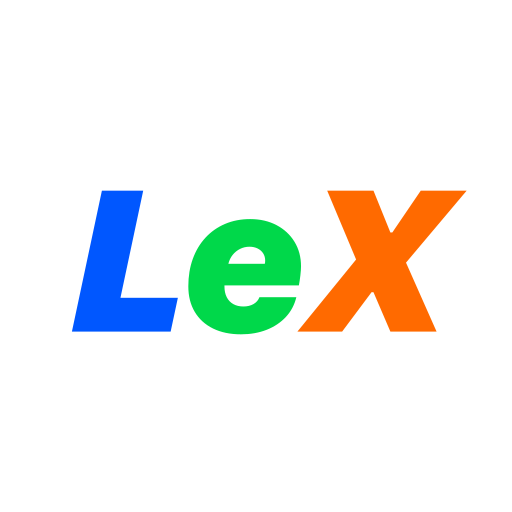
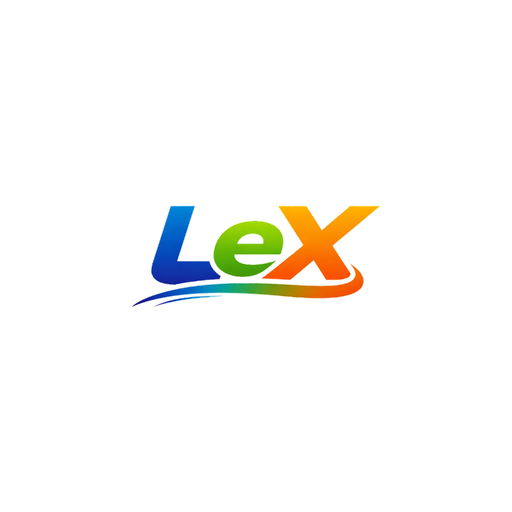
feat: logótipo oficial com fundo transparente e seed via LEX_SEED_PASSWORD
- lex-logo.png + script icons com remoção de fundo branco; derivados PNG/SVG flat removidos
- LexMark e PWA voltam ao asset oficial; README, Docker e compose documentam seed
- Seed: senha por LEX_SEED_PASSWORD (prod obrigatório); dev local fallback lex-local-dev

Made-with: Cursor

Changed region(s): [[0.125, 0.3438, 0.9062, 0.6562]]

diff --git a/apps/api/prisma/seed.ts b/apps/api/prisma/seed.ts
@@ -10,8 +10,19 @@ import * as bcrypt from 'bcryptjs';
 const prisma = new PrismaClient();
 
 /** Utilizador inicial (bootstrap local / Docker / primeiro deploy). */
-const SEED_USER_EMAIL = 'leandro.borges@me.com';
-const SEED_USER_PASSWORD = 'Lean777$';
+const SEED_USER_EMAIL = process.env.LEX_SEED_EMAIL ?? 'leandro.borges@me.com';
+
+function resolveSeedPassword(): string {
+  const fromEnv = process.env.LEX_SEED_PASSWORD;
+  if (fromEnv && fromEnv.length > 0) return fromEnv;
+  if (process.env.NODE_ENV === 'production' && process.env.LEX_ALLOW_SEED_IN_PROD === '1') {
+    throw new Error(
+      'Defina LEX_SEED_PASSWORD no ambiente antes do seed em produção (primeiro arranque ou repor senha).',
+    );
+  }
+  // Desenvolvimento local: previsível; em produção sem LEX_ALLOW_SEED_IN_PROD o seed nem corre.
+  return 'lex-local-dev';
+}
 
 async function main() {
   if (process.env.NODE_ENV === 'production' && process.env.LEX_ALLOW_SEED_IN_PROD !== '1') {
@@ -24,7 +35,7 @@ async function main() {
     where: { email: 'admin@lex.local' },
   });
 
-  const passwordHash = await bcrypt.hash(SEED_USER_PASSWORD, 10);
+  const passwordHash = await bcrypt.hash(resolveSeedPassword(), 10);
   await prisma.user.upsert({
     where: { email: SEED_USER_EMAIL },
     update: { passwordHash },

diff --git a/apps/web/src/components/brand/LexMark.tsx b/apps/web/src/components/brand/LexMark.tsx
@@ -1,11 +1,11 @@
 import { cn } from '@/lib/utils';
 
-type Props = { className?: string; /** @deprecated Compatibilidade; o SVG já é só “LeX”. */ withWordmark?: boolean };
+type Props = { className?: string; /** @deprecated Compatibilidade. */ withWordmark?: boolean };
 
-const LOGO_SRC = '/logo.svg';
+const LOGO_SRC = '/lex-logo.png';
 
 /**
- * Marca LeX — texto “LeX” com cores da marca (`/public/logo.svg`, fundo transparente).
+ * Marca LeX — logótipo oficial (LeX + swoosh), ficheiro em `/public/lex-logo.png`.
  */
 export function LexMark({ className }: Props) {
   return (
@@ -15,7 +15,7 @@ export function LexMark({ className }: Props) {
         alt="LeX"
         className="h-10 w-auto max-w-[min(100%,240px)] object-contain object-left bg-transparent"
         width={200}
-        height={100}
+        height={56}
         decoding="async"
       />
     </div>

diff --git a/apps/web/vite.config.ts b/apps/web/vite.config.ts
@@ -9,12 +9,11 @@ export default defineConfig({
     VitePWA({
       registerType: 'autoUpdate',
       includeAssets: [
+        'lex-logo.png',
         'favicon.png',
         'apple-touch-icon.png',
         'logo.png',
         'icon.png',
-        'logo.svg',
-        'icon.svg',
       ],
       manifest: {
         name: 'LeX Finance',

diff --git a/README.md b/README.md
@@ -65,7 +65,17 @@ docker-compose.yml → um serviço `app`, volume `lex_sqlite` → /data
    pnpm db:seed
    ```
 
-   > O seed cria o usuário **leandro.borges@me.com** (senha inicial no ficheiro `apps/api/prisma/seed.ts`), entidades PF/PJ seed, membros, categorias, fontes pagadoras e contratos Microblau, Unimed e FIPEC (valores zerados para edição).
+   **Senha:** em desenvolvimento local, se não definir `LEX_SEED_PASSWORD`, o seed usa a senha **`lex-local-dev`** (apenas para ambiente não produtivo). Para **definir ou repor** a senha do utilizador seed, execute de novo o seed com uma variável de ambiente:
+
+   ```bash
+   LEX_SEED_PASSWORD='a-sua-nova-senha' pnpm db:seed
+   ```
+
+   Opcional: `LEX_SEED_EMAIL=email@exemplo.com` para criar/atualizar outro e-mail.
+
+   > O seed cria o utilizador **leandro.borges@me.com** (ou o definido em `LEX_SEED_EMAIL`), entidades PF/PJ seed, membros, categorias, fontes pagadoras e contratos Microblau, Unimed e FIPEC (valores zerados para edição).
+
+   **Docker / produção (primeiro arranque):** defina **`LEX_SEED_PASSWORD`** no ambiente (o `docker-compose` do repo usa o default `lex-docker-seed` se não passar outra). Sem a variável num deploy “nu” (`docker run` sem `-e`), o seed automático falha quando a base ainda não tem utilizadores.
 
 4. Desenvolvimento (API + frontend com proxy):
 
@@ -121,17 +131,17 @@ Manual:
 
 ```bash
 docker build -t lex-finance .
-docker run -p 3000:3000 -e JWT_SECRET=sua-chave -v lex_data:/data lex-finance
+docker run -p 3000:3000 -e JWT_SECRET=sua-chave -e LEX_SEED_PASSWORD=sua-senha-seed -v lex_data:/data lex-finance
 ```
 
 - `PORT` pode ser sobrescrito (Railway injeta `PORT`); dentro do Compose o serviço usa `3000` interno.
 - SQLite persistente: `DATABASE_URL=file:/data/app.db` (padrão na imagem). Monte um volume em **`/data`**.
-- Entrypoint: `docker/entrypoint.sh` (copiado para `/usr/local/bin/lex-entrypoint.sh` na imagem). Após `migrate deploy`, se **não existir nenhum utilizador** (volume SQLite novo), corre o **seed automaticamente** (credenciais definidas em `apps/api/prisma/seed.ts`). Para desativar: `LEX_SKIP_AUTO_SEED=1`.
+- Entrypoint: `docker/entrypoint.sh` (copiado para `/usr/local/bin/lex-entrypoint.sh` na imagem). Após `migrate deploy`, se **não existir nenhum utilizador** (volume SQLite novo), corre o **seed automaticamente** — em produção é **obrigatório** definir **`LEX_SEED_PASSWORD`** (o `docker-compose` local usa o default `lex-docker-seed` se não passar outra). Para desativar: `LEX_SKIP_AUTO_SEED=1`.
 
 Se a base **já tem utilizadores** e precisar de correr o seed manualmente (raro):
 
 ```bash
-docker exec -it <container> sh -c "cd /app/apps/api && LEX_ALLOW_SEED_IN_PROD=1 npx prisma db seed"
+docker exec -it <container> sh -c "cd /app/apps/api && LEX_ALLOW_SEED_IN_PROD=1 LEX_SEED_PASSWORD='nova-senha' npx prisma db seed"
 ```
 
 O seed atual remove o utilizador legado `admin@lex.local` (se existir) e garante o utilizador definido em `seed.ts`. Útil após mudar o e-mail/senha do bootstrap sem apagar o volume.
@@ -151,10 +161,11 @@ O seed atual remove o utilizador legado `admin@lex.local` (se existir) e garante
 2. Adicione um **volume** montado em **`/data`** para persistir o SQLite. Sem volume (ou com caminho errado), o SQLite pode falhar com **Unable to open the database file** (erro 14). A imagem usa um entrypoint que verifica se `/data` é gravável antes de migrar e subir a API.
 3. Variáveis sugeridas:
    - `JWT_SECRET` — obrigatório em produção.
+   - **`LEX_SEED_PASSWORD`** — obrigatório no **primeiro arranque** (base vazia); define a senha do utilizador seed. Depois do login, pode alterar no ecrã de perfil.
    - `DATABASE_URL=file:/data/app.db` (já é o padrão do `Dockerfile`; reforce se necessário).
    - `PORT` — definido automaticamente pelo Railway.
 4. O arquivo `railway.json` aponta para o `Dockerfile` na raiz.
-5. **Primeiro deploy:** com volume em `/data` vazio, o entrypoint aplica migrações e **cria o utilizador seed** sozinho (não precisa de `docker exec` nem variáveis extra no Railway). E-mail e senha inicial estão em `apps/api/prisma/seed.ts` — altere a senha na app depois do primeiro login. Com base já populada, o seed **não** volta a correr (para atualizar o hash, rode o seed manualmente com `LEX_ALLOW_SEED_IN_PROD=1` ou altere a senha no ecrã de perfil).
+5. **Primeiro deploy:** com volume em `/data` vazio, o entrypoint aplica migrações e **cria o utilizador seed** (e-mail por defeito `leandro.borges@me.com`, ou `LEX_SEED_EMAIL`). Com base já populada, o seed automático **não** volta a correr; para **repor a senha**, execute o seed manualmente com `LEX_ALLOW_SEED_IN_PROD=1` e `LEX_SEED_PASSWORD=…` (ver secção Docker acima) ou use o ecrã de perfil se ainda tiver sessão.
 
 6. Em **Settings → Networking**, gere um **domínio público** (ou use o que o Railway atribui). Serviço só com rede interna ou URL errada costuma aparecer como *Application failed to respond*. Health check: `GET /health` → `ok`.
 7. Acesse a URL pública: interface web na raiz, API em `/api`, documentação em `/api/docs`.
